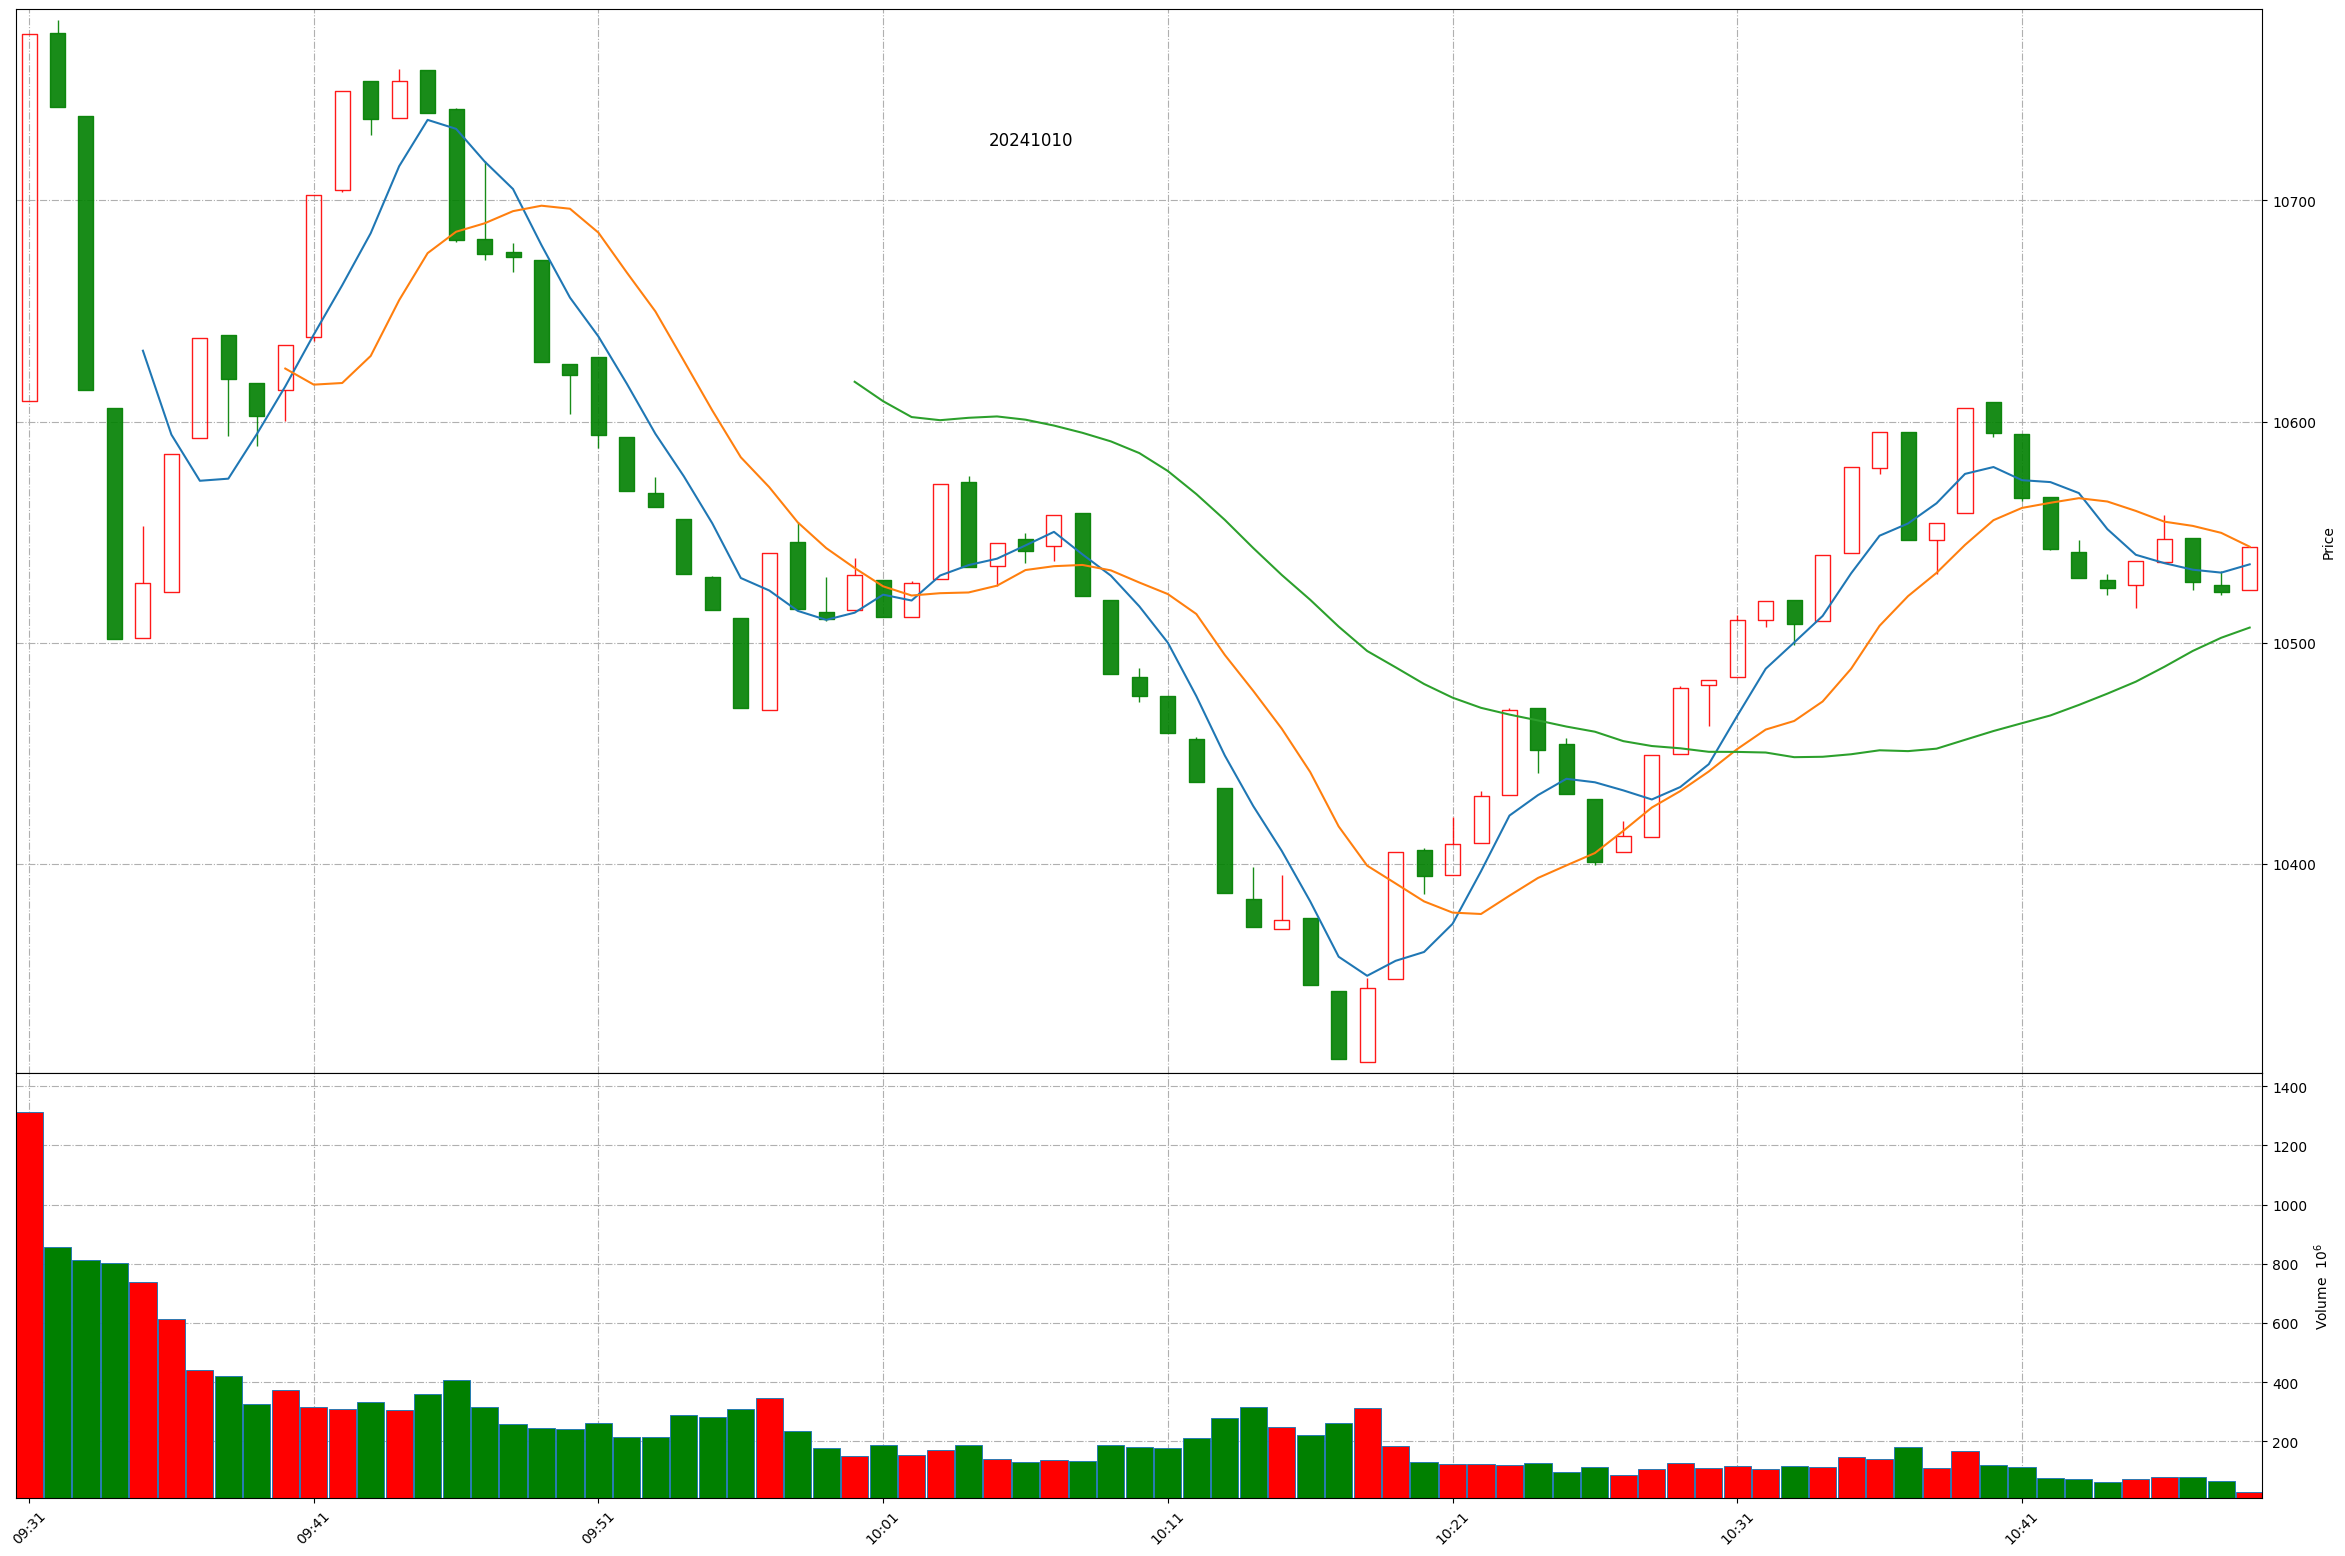
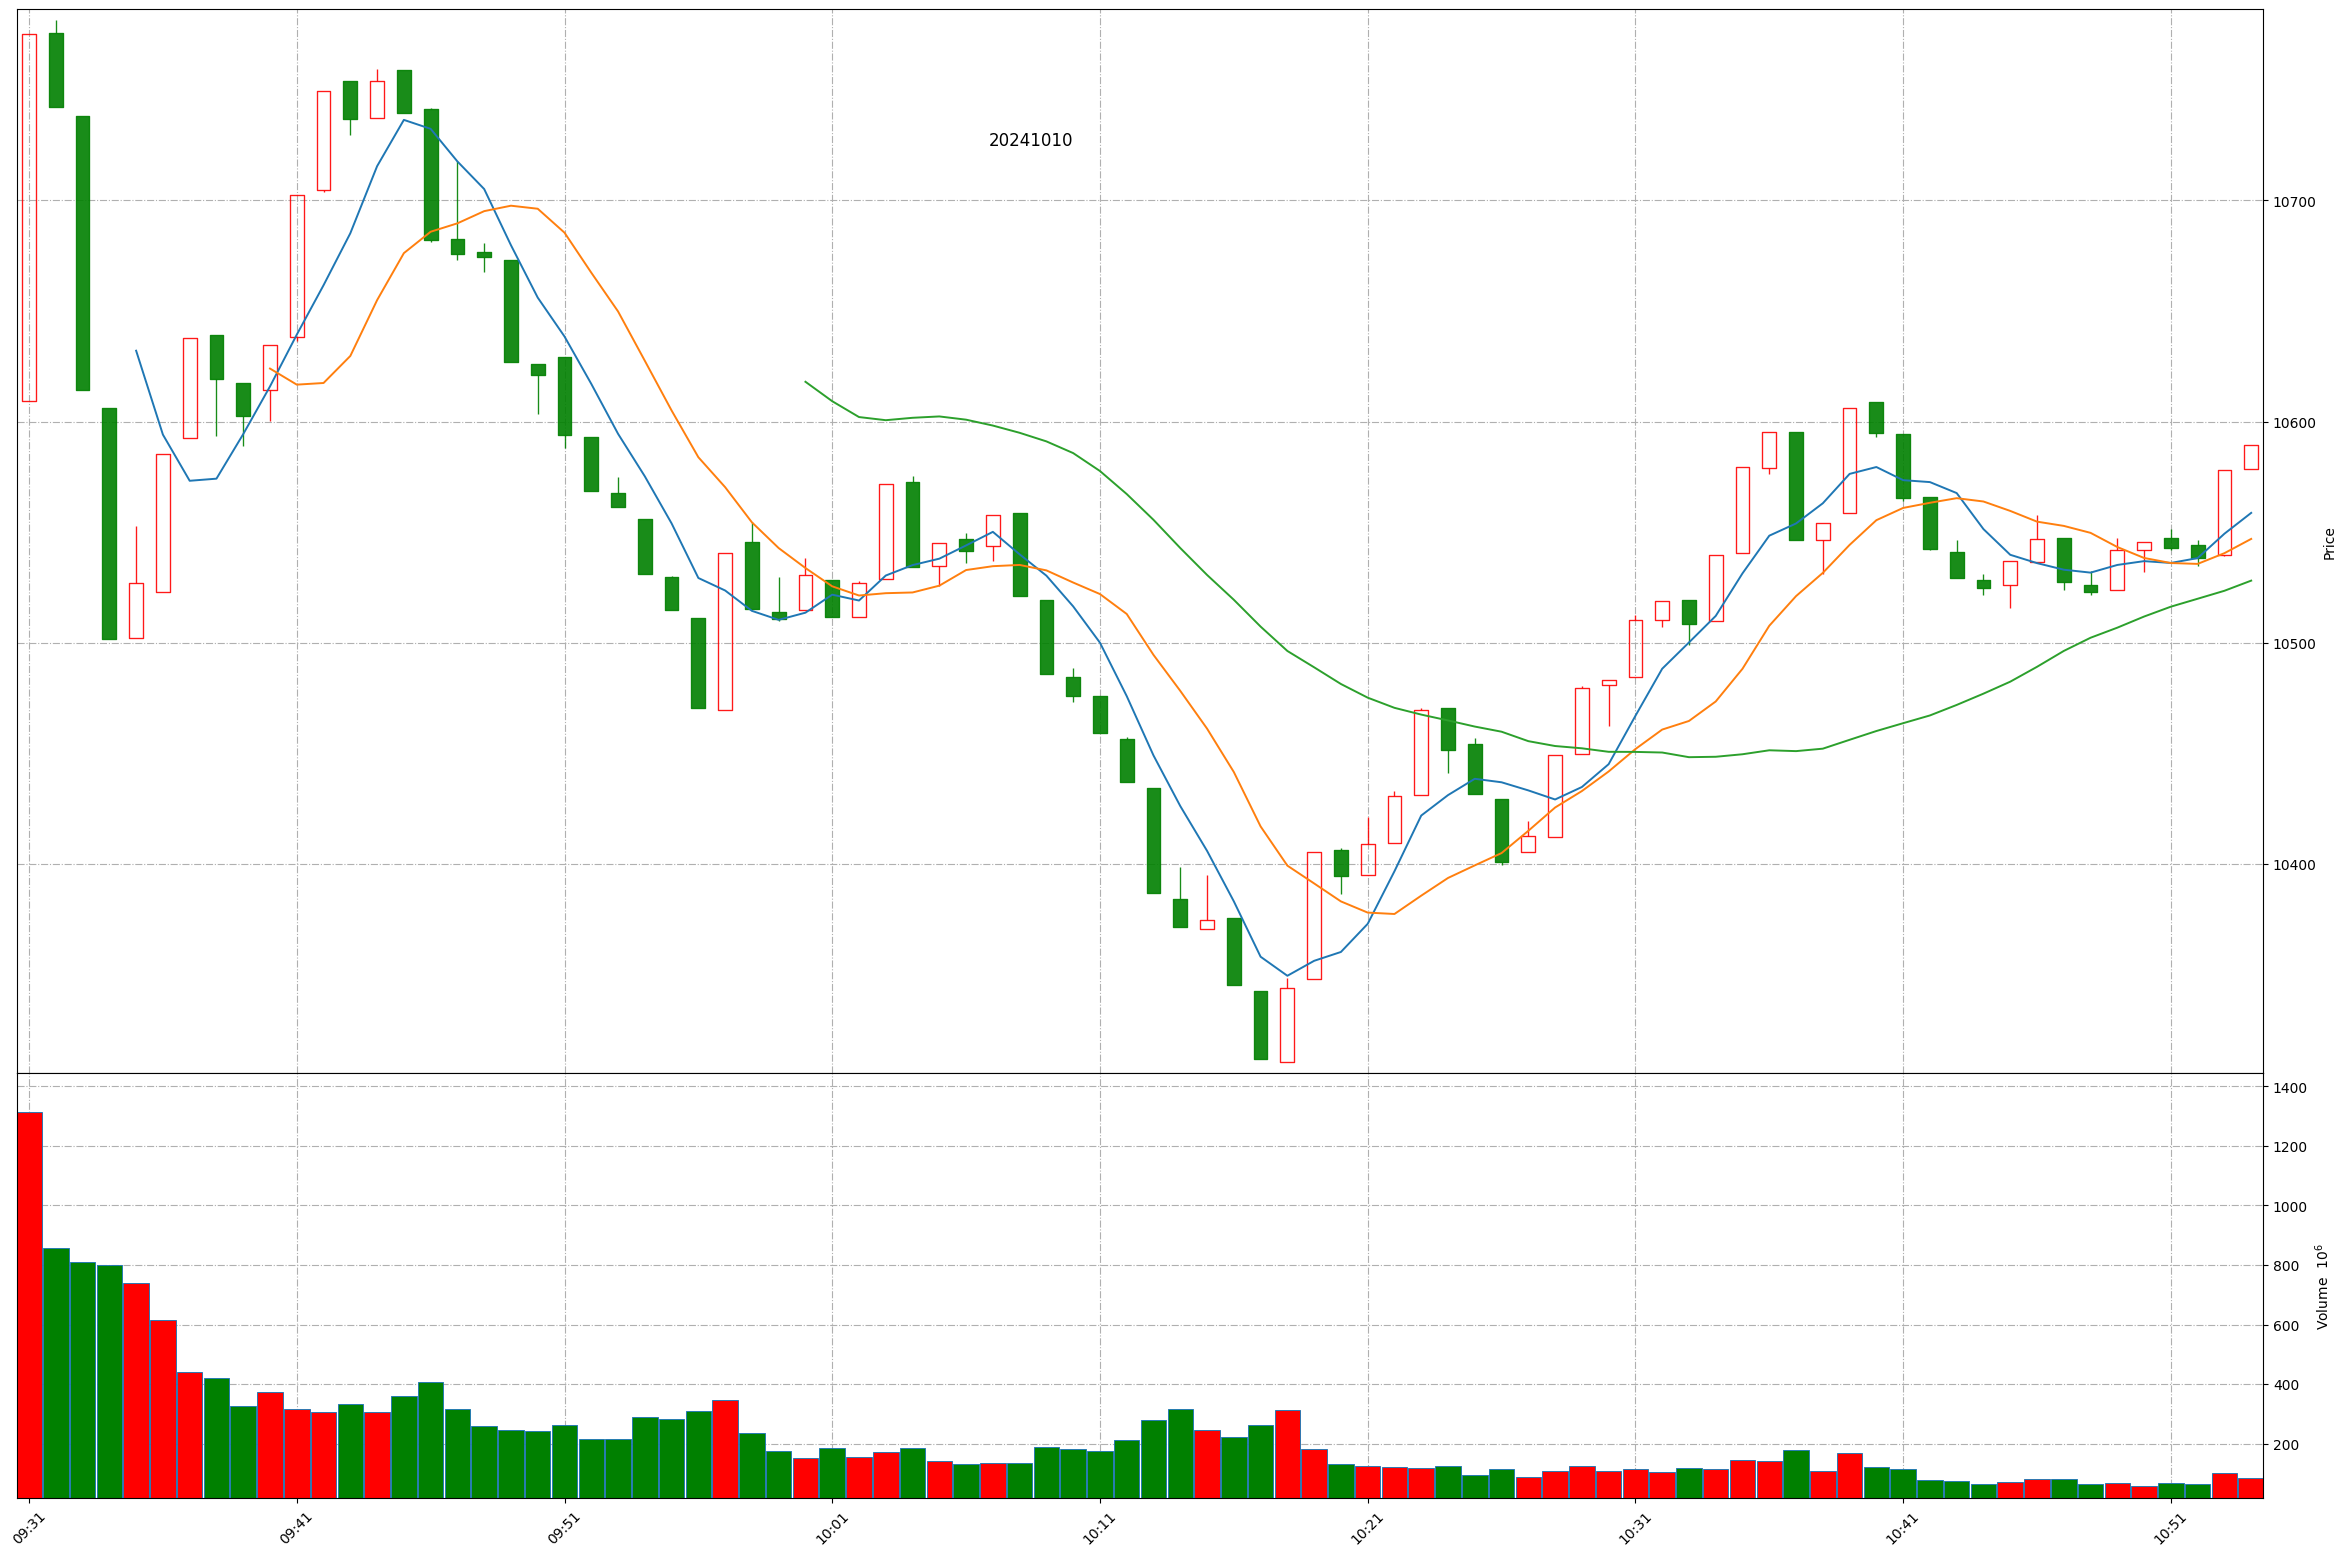
Github action update at 2024-10-10 10:53:37.

diff --git a/README.md b/README.md
@@ -1,11 +1,11 @@
 
 # Daily-A-share-market-quotes 每日 A 股指数（5min 更新）- 20241010
 
-### 上证指数 20241010 10:48
+### 上证指数 20241010 10:53
 ![](./fig/2024/10/20241010-sh000001.png)
 
-### 深证成指 20241010 10:48
+### 深证成指 20241010 10:53
 ![](./fig/2024/10/20241010-sz399001.png)
 
-### 北证50 20241010 10:48
+### 北证50 20241010 10:53
 ![](./fig/2024/10/20241010-bj899050.png)
